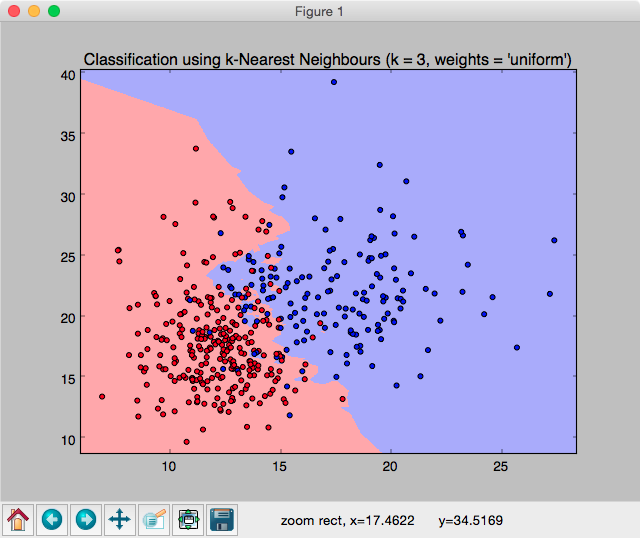
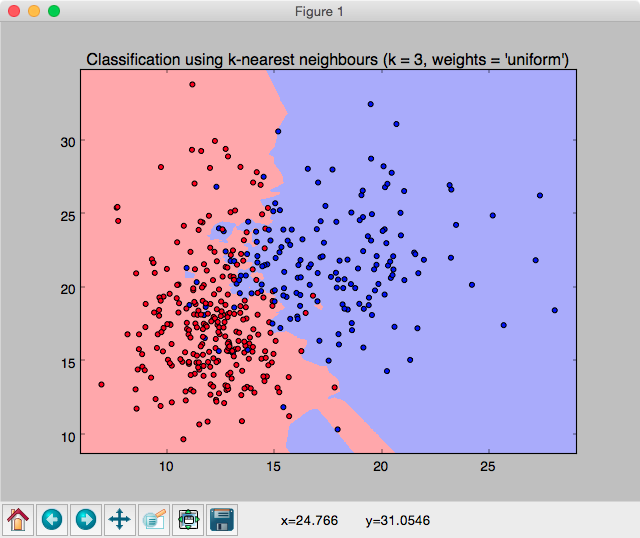
Make capitalisation of sample plot titles consistent

diff --git a/knnplots.py b/knnplots.py
@@ -53,5 +53,5 @@ def decisionplot(XTrain, yTrain, n_neighbors, weights):
     plt.scatter(Xtrain[:, 0], Xtrain[:, 1], c = yTrain, cmap = cmap_bold)
     plt.xlim(xx.min(), xx.max())
     plt.ylim(yy.min(), yy.max())
-    plt.title("Classification using k-Nearest Neighbours (k = %i, weights = '%s')" % (n_neighbors, weights))
+    plt.title("Classification using k-nearest neighbours (k = %i, weights = '%s')" % (n_neighbors, weights))
     plt.show()

diff --git a/module3_cancer-data-visualisation.py b/module3_cancer-data-visualisation.py
@@ -91,7 +91,7 @@ def plot_feature_distribution(feature_data, classification_data):
 
     # sizes are in inches
     fig = plt.figure(figsize=(4*n_features, 2.5*n_features))
-    fig.suptitle("Distribution of Breast Cancer Cell Data", fontsize=20)
+    fig.suptitle("Distribution of breast cancer cell data", fontsize=20)
 
     n_graph_rows = n_graph_cols = n_features
     graph_n = 1
